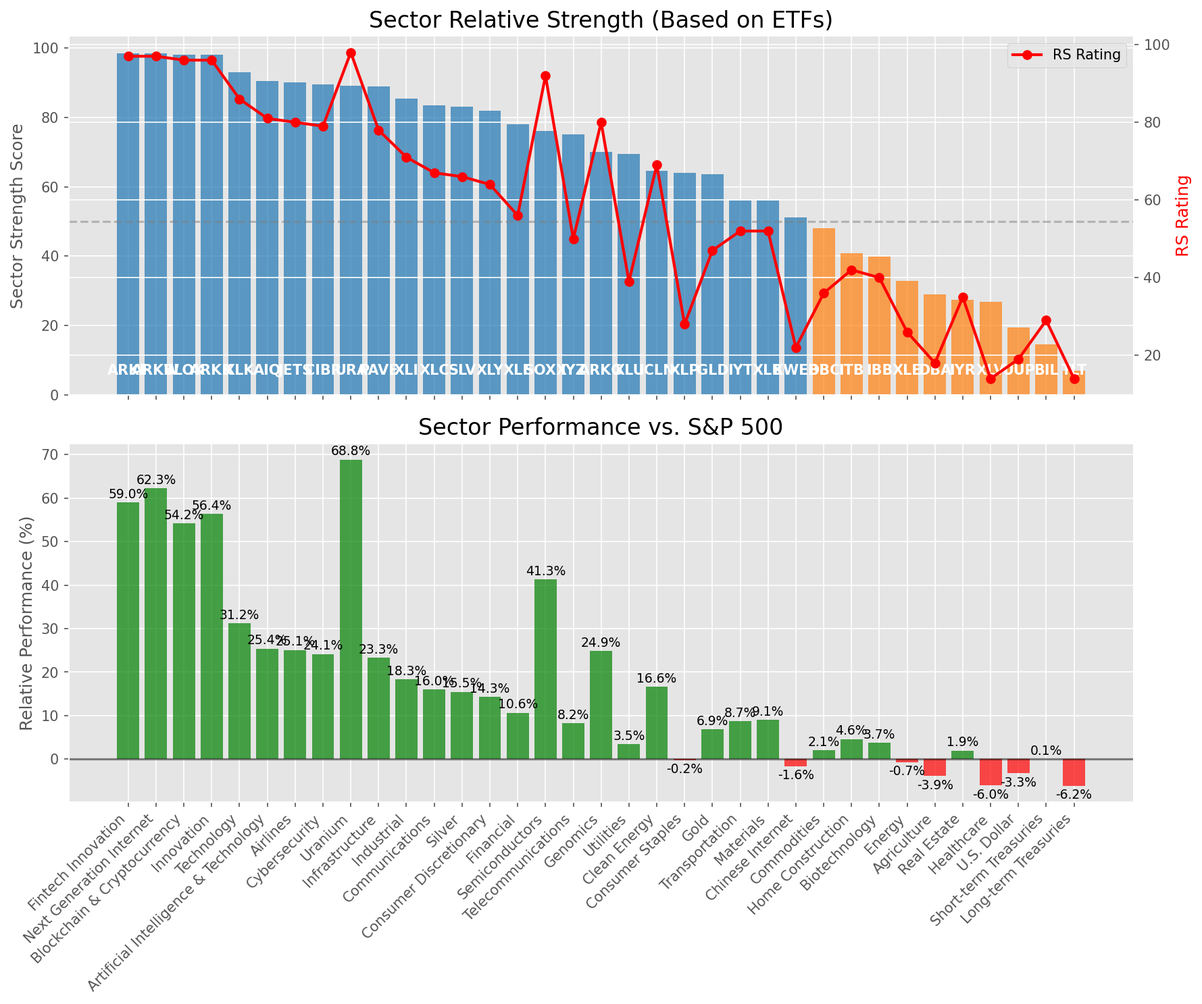
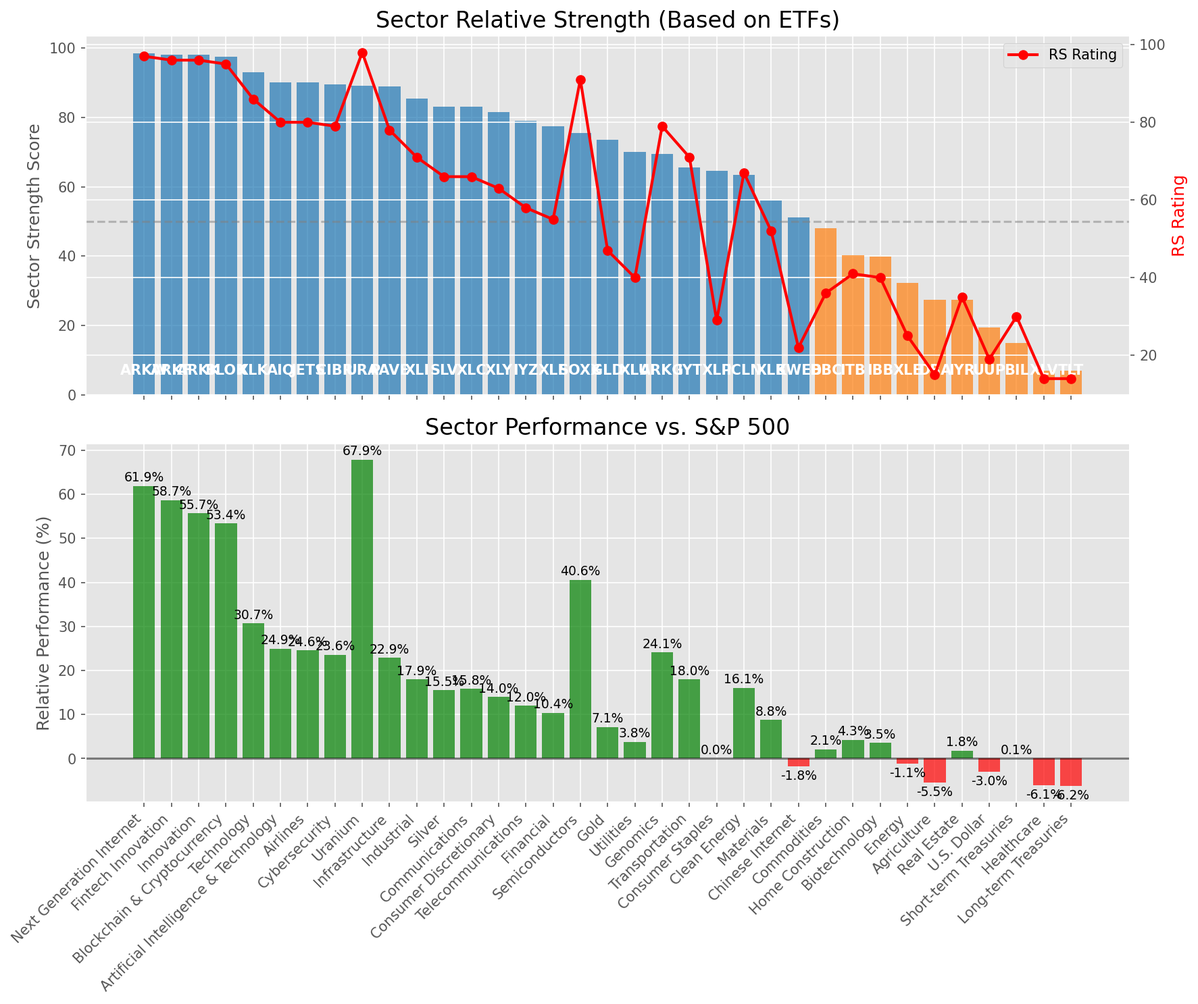
Add market report for 2025-07-07

diff --git a/oneil_relative_strength_report_2025-07-07.md b/oneil_relative_strength_report_2025-07-07.md
@@ -9,11 +9,11 @@
 | Metric | Value |
 |--------|-------|
 | **Market Valuation** | **Overvalued** |
-| **Current Ratio** | 10.23 |
+| **Current Ratio** | 10.20 |
 | **Historical Mean** | 9.40 |
 | **Standard Deviation** | 0.49 |
 | **Z-Score (StdDev from Mean)** | 1.81 |
-| **Total Market Cap** | $306.38 trillion |
+| **Total Market Cap** | $305.61 trillion |
 | **GDP** | $29.96 trillion |
 
 ## **Market Insights**
@@ -49,41 +49,41 @@ Based on William O'Neil's Relative Strength Methodology
 
 | ETF | Strength | RS Rating | Performance | Above Key MAs | Trend | Sector |
 |-----|----------|-----------|-------------|--------------|-------|--------|
-| [ARKF](https://www.tradingview.com/chart/?symbol=ARKF) | 98.5 | 97.0 | 58.98% | 10d ✓, 50d ✓, 200d ✓ | ↗ | Fintech Innovation |
-| [ARKW](https://www.tradingview.com/chart/?symbol=ARKW) | 98.5 | 97.0 | 62.26% | 10d ✓, 50d ✓, 200d ✓ | ↗ | Next Generation Internet |
-| [BLOK](https://www.tradingview.com/chart/?symbol=BLOK) | 98.0 | 96.0 | 54.21% | 10d ✓, 50d ✓, 200d ✓ | ↗ | Blockchain & Cryptocurrency |
-| [ARKK](https://www.tradingview.com/chart/?symbol=ARKK) | 98.0 | 96.0 | 56.38% | 10d ✓, 50d ✓, 200d ✓ | ↗ | Innovation |
-| [XLK](https://www.tradingview.com/chart/?symbol=XLK) | 93.0 | 86.0 | 31.19% | 10d ✓, 50d ✓, 200d ✓ | ↗ | Technology |
-| [AIQ](https://www.tradingview.com/chart/?symbol=AIQ) | 90.5 | 81.0 | 25.42% | 10d ✓, 50d ✓, 200d ✓ | ↗ | Artificial Intelligence & Technology |
-| [JETS](https://www.tradingview.com/chart/?symbol=JETS) | 90.0 | 80.0 | 25.10% | 10d ✓, 50d ✓, 200d ✓ | ↗ | Airlines |
-| [CIBR](https://www.tradingview.com/chart/?symbol=CIBR) | 89.5 | 79.0 | 24.14% | 10d ✓, 50d ✓, 200d ✓ | ↗ | Cybersecurity |
-| [URA](https://www.tradingview.com/chart/?symbol=URA) | 89.1 | 98.0 | 68.83% | 10d ✗, 50d ✓, 200d ✓ | ↗ | Uranium |
-| [PAVE](https://www.tradingview.com/chart/?symbol=PAVE) | 89.0 | 78.0 | 23.30% | 10d ✓, 50d ✓, 200d ✓ | ↗ | Infrastructure |
-| [XLI](https://www.tradingview.com/chart/?symbol=XLI) | 85.5 | 71.0 | 18.30% | 10d ✓, 50d ✓, 200d ✓ | ↗ | Industrial |
-| [XLC](https://www.tradingview.com/chart/?symbol=XLC) | 83.5 | 67.0 | 16.00% | 10d ✓, 50d ✓, 200d ✓ | ↗ | Communications |
-| [SLV](https://www.tradingview.com/chart/?symbol=SLV) | 83.0 | 66.0 | 15.46% | 10d ✓, 50d ✓, 200d ✓ | ↗ | Silver |
-| [XLY](https://www.tradingview.com/chart/?symbol=XLY) | 82.0 | 64.0 | 14.34% | 10d ✓, 50d ✓, 200d ✓ | ↗ | Consumer Discretionary |
-| [XLF](https://www.tradingview.com/chart/?symbol=XLF) | 78.0 | 56.0 | 10.64% | 10d ✓, 50d ✓, 200d ✓ | ↗ | Financial |
-| [SOXX](https://www.tradingview.com/chart/?symbol=SOXX) | 76.0 | 92.0 | 41.35% | 10d ✓, 50d ✓, 200d ✓ | ↘ | Semiconductors |
-| [IYZ](https://www.tradingview.com/chart/?symbol=IYZ) | 75.0 | 50.0 | 8.22% | 10d ✓, 50d ✓, 200d ✓ | ↗ | Telecommunications |
-| [ARKG](https://www.tradingview.com/chart/?symbol=ARKG) | 70.0 | 80.0 | 24.90% | 10d ✓, 50d ✓, 200d ✓ | ↘ | Genomics |
-| [XLU](https://www.tradingview.com/chart/?symbol=XLU) | 69.5 | 39.0 | 3.47% | 10d ✓, 50d ✓, 200d ✓ | ↗ | Utilities |
-| [ICLN](https://www.tradingview.com/chart/?symbol=ICLN) | 64.5 | 69.0 | 16.63% | 10d ✓, 50d ✓, 200d ✓ | ↘ | Clean Energy |
-| [XLP](https://www.tradingview.com/chart/?symbol=XLP) | 64.0 | 28.0 | -0.24% | 10d ✓, 50d ✓, 200d ✓ | ↗ | Consumer Staples |
-| [GLD](https://www.tradingview.com/chart/?symbol=GLD) | 63.6 | 47.0 | 6.85% | 10d ✗, 50d ✓, 200d ✓ | ↗ | Gold |
-| [IYT](https://www.tradingview.com/chart/?symbol=IYT) | 56.0 | 52.0 | 8.74% | 10d ✓, 50d ✓, 200d ✓ | ↘ | Transportation |
-| [XLB](https://www.tradingview.com/chart/?symbol=XLB) | 56.0 | 52.0 | 9.06% | 10d ✓, 50d ✓, 200d ✓ | ↘ | Materials |
-| [KWEB](https://www.tradingview.com/chart/?symbol=KWEB) | 51.1 | 22.0 | -1.65% | 10d ✗, 50d ✓, 200d ✓ | ↗ | Chinese Internet |
-| [DBC](https://www.tradingview.com/chart/?symbol=DBC) | 48.0 | 36.0 | 2.07% | 10d ✓, 50d ✓, 200d ✓ | ↘ | Commodities |
-| [ITB](https://www.tradingview.com/chart/?symbol=ITB) | 40.8 | 42.0 | 4.59% | 10d ✓, 50d ✓, 200d ✗ | ↘ | Home Construction |
-| [IBB](https://www.tradingview.com/chart/?symbol=IBB) | 39.8 | 40.0 | 3.72% | 10d ✓, 50d ✓, 200d ✗ | ↘ | Biotechnology |
-| [XLE](https://www.tradingview.com/chart/?symbol=XLE) | 32.8 | 26.0 | -0.69% | 10d ✓, 50d ✓, 200d ✗ | ↘ | Energy |
-| [DBA](https://www.tradingview.com/chart/?symbol=DBA) | 29.0 | 18.0 | -3.86% | 10d ✗, 50d ✗, 200d ✗ | ↗ | Agriculture |
-| [IYR](https://www.tradingview.com/chart/?symbol=IYR) | 27.4 | 35.0 | 1.95% | 10d ✗, 50d ✓, 200d ✗ | ↘ | Real Estate |
-| [XLV](https://www.tradingview.com/chart/?symbol=XLV) | 26.8 | 14.0 | -6.03% | 10d ✓, 50d ✓, 200d ✗ | ↘ | Healthcare |
-| [UUP](https://www.tradingview.com/chart/?symbol=UUP) | 19.4 | 19.0 | -3.26% | 10d ✓, 50d ✗, 200d ✗ | ↘ | U.S. Dollar |
-| [BIL](https://www.tradingview.com/chart/?symbol=BIL) | 14.5 | 29.0 | 0.06% | 10d ✗, 50d ✗, 200d ✗ | ↘ | Short-term Treasuries |
-| [TLT](https://www.tradingview.com/chart/?symbol=TLT) | 7.0 | 14.0 | -6.16% | 10d ✗, 50d ✗, 200d ✗ | ↘ | Long-term Treasuries |
+| [ARKW](https://www.tradingview.com/chart/?symbol=ARKW) | 98.5 | 97.0 | 61.86% | 10d ✓, 50d ✓, 200d ✓ | ↗ | Next Generation Internet |
+| [ARKF](https://www.tradingview.com/chart/?symbol=ARKF) | 98.0 | 96.0 | 58.68% | 10d ✓, 50d ✓, 200d ✓ | ↗ | Fintech Innovation |
+| [ARKK](https://www.tradingview.com/chart/?symbol=ARKK) | 98.0 | 96.0 | 55.72% | 10d ✓, 50d ✓, 200d ✓ | ↗ | Innovation |
+| [BLOK](https://www.tradingview.com/chart/?symbol=BLOK) | 97.5 | 95.0 | 53.36% | 10d ✓, 50d ✓, 200d ✓ | ↗ | Blockchain & Cryptocurrency |
+| [XLK](https://www.tradingview.com/chart/?symbol=XLK) | 93.0 | 86.0 | 30.70% | 10d ✓, 50d ✓, 200d ✓ | ↗ | Technology |
+| [AIQ](https://www.tradingview.com/chart/?symbol=AIQ) | 90.0 | 80.0 | 24.92% | 10d ✓, 50d ✓, 200d ✓ | ↗ | Artificial Intelligence & Technology |
+| [JETS](https://www.tradingview.com/chart/?symbol=JETS) | 90.0 | 80.0 | 24.56% | 10d ✓, 50d ✓, 200d ✓ | ↗ | Airlines |
+| [CIBR](https://www.tradingview.com/chart/?symbol=CIBR) | 89.5 | 79.0 | 23.60% | 10d ✓, 50d ✓, 200d ✓ | ↗ | Cybersecurity |
+| [URA](https://www.tradingview.com/chart/?symbol=URA) | 89.1 | 98.0 | 67.85% | 10d ✗, 50d ✓, 200d ✓ | ↗ | Uranium |
+| [PAVE](https://www.tradingview.com/chart/?symbol=PAVE) | 89.0 | 78.0 | 22.89% | 10d ✓, 50d ✓, 200d ✓ | ↗ | Infrastructure |
+| [XLI](https://www.tradingview.com/chart/?symbol=XLI) | 85.5 | 71.0 | 17.94% | 10d ✓, 50d ✓, 200d ✓ | ↗ | Industrial |
+| [SLV](https://www.tradingview.com/chart/?symbol=SLV) | 83.0 | 66.0 | 15.52% | 10d ✓, 50d ✓, 200d ✓ | ↗ | Silver |
+| [XLC](https://www.tradingview.com/chart/?symbol=XLC) | 83.0 | 66.0 | 15.83% | 10d ✓, 50d ✓, 200d ✓ | ↗ | Communications |
+| [XLY](https://www.tradingview.com/chart/?symbol=XLY) | 81.5 | 63.0 | 13.95% | 10d ✓, 50d ✓, 200d ✓ | ↗ | Consumer Discretionary |
+| [IYZ](https://www.tradingview.com/chart/?symbol=IYZ) | 79.0 | 58.0 | 11.97% | 10d ✓, 50d ✓, 200d ✓ | ↗ | Telecommunications |
+| [XLF](https://www.tradingview.com/chart/?symbol=XLF) | 77.5 | 55.0 | 10.41% | 10d ✓, 50d ✓, 200d ✓ | ↗ | Financial |
+| [SOXX](https://www.tradingview.com/chart/?symbol=SOXX) | 75.5 | 91.0 | 40.57% | 10d ✓, 50d ✓, 200d ✓ | ↘ | Semiconductors |
+| [GLD](https://www.tradingview.com/chart/?symbol=GLD) | 73.5 | 47.0 | 7.14% | 10d ✓, 50d ✓, 200d ✓ | ↗ | Gold |
+| [XLU](https://www.tradingview.com/chart/?symbol=XLU) | 70.0 | 40.0 | 3.78% | 10d ✓, 50d ✓, 200d ✓ | ↗ | Utilities |
+| [ARKG](https://www.tradingview.com/chart/?symbol=ARKG) | 69.5 | 79.0 | 24.11% | 10d ✓, 50d ✓, 200d ✓ | ↘ | Genomics |
+| [IYT](https://www.tradingview.com/chart/?symbol=IYT) | 65.5 | 71.0 | 17.96% | 10d ✓, 50d ✓, 200d ✓ | ↘ | Transportation |
+| [XLP](https://www.tradingview.com/chart/?symbol=XLP) | 64.5 | 29.0 | 0.02% | 10d ✓, 50d ✓, 200d ✓ | ↗ | Consumer Staples |
+| [ICLN](https://www.tradingview.com/chart/?symbol=ICLN) | 63.5 | 67.0 | 16.08% | 10d ✓, 50d ✓, 200d ✓ | ↘ | Clean Energy |
+| [XLB](https://www.tradingview.com/chart/?symbol=XLB) | 56.0 | 52.0 | 8.81% | 10d ✓, 50d ✓, 200d ✓ | ↘ | Materials |
+| [KWEB](https://www.tradingview.com/chart/?symbol=KWEB) | 51.1 | 22.0 | -1.84% | 10d ✗, 50d ✓, 200d ✓ | ↗ | Chinese Internet |
+| [DBC](https://www.tradingview.com/chart/?symbol=DBC) | 48.0 | 36.0 | 2.14% | 10d ✓, 50d ✓, 200d ✓ | ↘ | Commodities |
+| [ITB](https://www.tradingview.com/chart/?symbol=ITB) | 40.3 | 41.0 | 4.28% | 10d ✓, 50d ✓, 200d ✗ | ↘ | Home Construction |
+| [IBB](https://www.tradingview.com/chart/?symbol=IBB) | 39.8 | 40.0 | 3.55% | 10d ✓, 50d ✓, 200d ✗ | ↘ | Biotechnology |
+| [XLE](https://www.tradingview.com/chart/?symbol=XLE) | 32.3 | 25.0 | -1.13% | 10d ✓, 50d ✓, 200d ✗ | ↘ | Energy |
+| [DBA](https://www.tradingview.com/chart/?symbol=DBA) | 27.5 | 15.0 | -5.46% | 10d ✗, 50d ✗, 200d ✗ | ↗ | Agriculture |
+| [IYR](https://www.tradingview.com/chart/?symbol=IYR) | 27.4 | 35.0 | 1.78% | 10d ✗, 50d ✓, 200d ✗ | ↘ | Real Estate |
+| [UUP](https://www.tradingview.com/chart/?symbol=UUP) | 19.4 | 19.0 | -2.99% | 10d ✓, 50d ✗, 200d ✗ | ↘ | U.S. Dollar |
+| [BIL](https://www.tradingview.com/chart/?symbol=BIL) | 15.0 | 30.0 | 0.06% | 10d ✗, 50d ✗, 200d ✗ | ↘ | Short-term Treasuries |
+| [XLV](https://www.tradingview.com/chart/?symbol=XLV) | 7.0 | 14.0 | -6.11% | 10d ✗, 50d ✗, 200d ✗ | ↘ | Healthcare |
+| [TLT](https://www.tradingview.com/chart/?symbol=TLT) | 7.0 | 14.0 | -6.22% | 10d ✗, 50d ✗, 200d ✗ | ↘ | Long-term Treasuries |
 
 ### **Sector ETF Performance Interpretation**
 
@@ -98,160 +98,165 @@ This table shows the relative strength metrics for different market sectors base
 
 ### **Current Sector Leadership**
 
-The current market leadership is coming from the following sectors: **Fintech Innovation, Next Generation Internet, Blockchain & Cryptocurrency**.
+The current market leadership is coming from the following sectors: **Next Generation Internet, Fintech Innovation, Innovation**.
 
-The **Fintech Innovation** sector (represented by **ARKF**) is showing particularly strong relative strength with an RS rating of 97.0 and performance of 58.98% vs. the S&P 500. This sector is trading above its 10-day, 50-day, 200-day moving average(s). Investors should consider focusing on high RS stocks within these leading sectors for potential outperformance.
+The **Next Generation Internet** sector (represented by **ARKW**) is showing particularly strong relative strength with an RS rating of 97.0 and performance of 61.86% vs. the S&P 500. This sector is trading above its 10-day, 50-day, 200-day moving average(s). Investors should consider focusing on high RS stocks within these leading sectors for potential outperformance.
 
 ---
 
 ## **Buy Recommendations**
 
-The following 51 stocks show exceptional relative strength:
+The following 55 stocks show exceptional relative strength:
 
 | RS Rating | Buy Score | Current Price | Chart | Name | Ticker |
 |-----------|-----------|---------------|-------|------|--------|
-| 100 | 100 | $182.53 | [Chart](https://www.tradingview.com/chart/?symbol=LEU) | Centrus Energy Corp. | LEU |
-| 100 | 100 | $93.22 | [Chart](https://www.tradingview.com/chart/?symbol=HOOD) | Robinhood Markets, Inc. Class A Common Stock | HOOD |
-| 100 | 100 | $179.20 | [Chart](https://www.tradingview.com/chart/?symbol=SEZL) | Sezzle Inc. Common Stock | SEZL |
-| 100 | 100 | $155.79 | [Chart](https://www.tradingview.com/chart/?symbol=CLS) | Celestica, Inc. | CLS |
-| 100 | 100 | $281.74 | [Chart](https://www.tradingview.com/chart/?symbol=DAVE) | Dave Inc. Class A Common Stock | DAVE |
-| 99 | 100 | $36.49 | [Chart](https://www.tradingview.com/chart/?symbol=GRPN) | Groupon, Inc.Common Stock | GRPN |
-| 99 | 100 | $75.33 | [Chart](https://www.tradingview.com/chart/?symbol=ODD) | ODDITY Tech Ltd. Class A Ordinary Shares | ODD |
+| 100 | 100 | $154.86 | [Chart](https://www.tradingview.com/chart/?symbol=CLS) | Celestica, Inc. | CLS |
+| 100 | 100 | $179.75 | [Chart](https://www.tradingview.com/chart/?symbol=SEZL) | Sezzle Inc. Common Stock | SEZL |
+| 100 | 100 | $182.88 | [Chart](https://www.tradingview.com/chart/?symbol=LEU) | Centrus Energy Corp. | LEU |
+| 100 | 100 | $92.96 | [Chart](https://www.tradingview.com/chart/?symbol=HOOD) | Robinhood Markets, Inc. Class A Common Stock | HOOD |
+| 100 | 100 | $279.30 | [Chart](https://www.tradingview.com/chart/?symbol=DAVE) | Dave Inc. Class A Common Stock | DAVE |
+| 99 | 100 | $36.46 | [Chart](https://www.tradingview.com/chart/?symbol=GRPN) | Groupon, Inc.Common Stock | GRPN |
+| 99 | 100 | $356.12 | [Chart](https://www.tradingview.com/chart/?symbol=CVNA) | Carvana Co. | CVNA |
+| 99 | 100 | $75.42 | [Chart](https://www.tradingview.com/chart/?symbol=ODD) | ODDITY Tech Ltd. Class A Ordinary Shares | ODD |
+| 99 | 100 | $192.54 | [Chart](https://www.tradingview.com/chart/?symbol=NET) | Cloudflare, Inc. Class A common stock, par value $0.001 per share | NET |
+| 99 | 100 | $107.69 | [Chart](https://www.tradingview.com/chart/?symbol=RBLX) | Roblox Corporation | RBLX |
 | 99 | 100 | $149.20 | [Chart](https://www.tradingview.com/chart/?symbol=LMB) | Limbach Holdings, Inc Common Stock | LMB |
-| 99 | 100 | $356.41 | [Chart](https://www.tradingview.com/chart/?symbol=CVNA) | Carvana Co. | CVNA |
-| 99 | 100 | $193.52 | [Chart](https://www.tradingview.com/chart/?symbol=NET) | Cloudflare, Inc. Class A common stock, par value $0.001 per share | NET |
-| 99 | 100 | $107.34 | [Chart](https://www.tradingview.com/chart/?symbol=RBLX) | Roblox Corporation | RBLX |
-| 98 | 100 | $527.38 | [Chart](https://www.tradingview.com/chart/?symbol=GEV) | GE Vernova Inc. | GEV |
-| 98 | 100 | $330.69 | [Chart](https://www.tradingview.com/chart/?symbol=RCL) | Royal Caribbean Group | RCL |
-| 97 | 100 | $315.86 | [Chart](https://www.tradingview.com/chart/?symbol=ZS) | Zscaler, Inc. Common Stock | ZS |
-| 97 | 100 | $71.97 | [Chart](https://www.tradingview.com/chart/?symbol=URBN) | Urban Outfitters Inc | URBN |
-| 97 | 100 | $50.54 | [Chart](https://www.tradingview.com/chart/?symbol=ARKF) | ARK Fintech Innovation ETF | ARKF |
-| 97 | 100 | $138.00 | [Chart](https://www.tradingview.com/chart/?symbol=PLTR) | Palantir Technologies Inc. Class A Common Stock | PLTR |
+| 98 | 100 | $329.25 | [Chart](https://www.tradingview.com/chart/?symbol=RCL) | Royal Caribbean Group | RCL |
+| 98 | 100 | $528.74 | [Chart](https://www.tradingview.com/chart/?symbol=GEV) | GE Vernova Inc. | GEV |
+| 97 | 100 | $72.06 | [Chart](https://www.tradingview.com/chart/?symbol=URBN) | Urban Outfitters Inc | URBN |
+| 97 | 100 | $138.05 | [Chart](https://www.tradingview.com/chart/?symbol=PLTR) | Palantir Technologies Inc. Class A Common Stock | PLTR |
+| 97 | 100 | $314.08 | [Chart](https://www.tradingview.com/chart/?symbol=ZS) | Zscaler, Inc. Common Stock | ZS |
+| 96 | 100 | $50.44 | [Chart](https://www.tradingview.com/chart/?symbol=ARKF) | ARK Fintech Innovation ETF | ARKF |
+| 96 | 100 | $89.81 | [Chart](https://www.tradingview.com/chart/?symbol=RBRK) | Rubrik, Inc. | RBRK |
+| 96 | 100 | $38.35 | [Chart](https://www.tradingview.com/chart/?symbol=AS) | Amer Sports, Inc. | AS |
 | 96 | 100 | $43.94 | [Chart](https://www.tradingview.com/chart/?symbol=FARO) | Faro Technologies Inc | FARO |
-| 96 | 100 | $90.45 | [Chart](https://www.tradingview.com/chart/?symbol=RBRK) | Rubrik, Inc. | RBRK |
-| 96 | 100 | $38.40 | [Chart](https://www.tradingview.com/chart/?symbol=AS) | Amer Sports, Inc. | AS |
-| 95 | 100 | $50.23 | [Chart](https://www.tradingview.com/chart/?symbol=INOD) | Innodata Inc. | INOD |
-| 94 | 100 | $45.40 | [Chart](https://www.tradingview.com/chart/?symbol=KTOS) | Kratos Defense & Security Solutions, Inc. | KTOS |
-| 94 | 100 | $58.28 | [Chart](https://www.tradingview.com/chart/?symbol=IBKR) | Interactive Brokers Group, Inc. Class A Common Stock | IBKR |
-| 94 | 100 | $505.71 | [Chart](https://www.tradingview.com/chart/?symbol=CRWD) | CrowdStrike Holdings, Inc. Class A Common Stock | CRWD |
-| 93 | 100 | $252.74 | [Chart](https://www.tradingview.com/chart/?symbol=WWD) | Woodward, Inc. | WWD |
-| 93 | 100 | $180.48 | [Chart](https://www.tradingview.com/chart/?symbol=HWM) | Howmet Aerospace Inc. | HWM |
-| 93 | 100 | $46.82 | [Chart](https://www.tradingview.com/chart/?symbol=DRS) | Leonardo DRS, Inc. Common Stock | DRS |
-| 92 | 100 | $21.45 | [Chart](https://www.tradingview.com/chart/?symbol=MAG) | MAG Silver Corp. | MAG |
-| 92 | 100 | $17.52 | [Chart](https://www.tradingview.com/chart/?symbol=DAN) | Dana Incorporated | DAN |
-| 92 | 100 | $92.07 | [Chart](https://www.tradingview.com/chart/?symbol=TPR) | Tapestry, Inc. Common Stock | TPR |
-| 91 | 100 | $43.29 | [Chart](https://www.tradingview.com/chart/?symbol=KD) | Kyndryl Holdings, Inc. | KD |
-| 90 | 100 | $25.75 | [Chart](https://www.tradingview.com/chart/?symbol=KAR) | OPENLANE, Inc | KAR |
-| 88 | 100 | $28.24 | [Chart](https://www.tradingview.com/chart/?symbol=SRAD) | Sportradar Group AG Class A Ordinary Shares | SRAD |
+| 95 | 100 | $50.01 | [Chart](https://www.tradingview.com/chart/?symbol=INOD) | Innodata Inc. | INOD |
+| 94 | 100 | $44.98 | [Chart](https://www.tradingview.com/chart/?symbol=KTOS) | Kratos Defense & Security Solutions, Inc. | KTOS |
+| 94 | 100 | $58.01 | [Chart](https://www.tradingview.com/chart/?symbol=IBKR) | Interactive Brokers Group, Inc. Class A Common Stock | IBKR |
+| 94 | 100 | $797.34 | [Chart](https://www.tradingview.com/chart/?symbol=AXON) | Axon Enterprise, Inc. Common Stock | AXON |
+| 93 | 100 | $501.37 | [Chart](https://www.tradingview.com/chart/?symbol=CRWD) | CrowdStrike Holdings, Inc. Class A Common Stock | CRWD |
+| 93 | 100 | $179.86 | [Chart](https://www.tradingview.com/chart/?symbol=HWM) | Howmet Aerospace Inc. | HWM |
+| 93 | 100 | $252.93 | [Chart](https://www.tradingview.com/chart/?symbol=WWD) | Woodward, Inc. | WWD |
+| 93 | 100 | $46.79 | [Chart](https://www.tradingview.com/chart/?symbol=DRS) | Leonardo DRS, Inc. Common Stock | DRS |
+| 92 | 100 | $92.21 | [Chart](https://www.tradingview.com/chart/?symbol=TPR) | Tapestry, Inc. Common Stock | TPR |
+| 92 | 100 | $21.52 | [Chart](https://www.tradingview.com/chart/?symbol=MAG) | MAG Silver Corp. | MAG |
+| 91 | 100 | $17.48 | [Chart](https://www.tradingview.com/chart/?symbol=DAN) | Dana Incorporated | DAN |
+| 91 | 100 | $243.62 | [Chart](https://www.tradingview.com/chart/?symbol=DASH) | DoorDash, Inc. Class A Common Stock | DASH |
+| 91 | 100 | $43.00 | [Chart](https://www.tradingview.com/chart/?symbol=KD) | Kyndryl Holdings, Inc. | KD |
+| 90 | 100 | $25.57 | [Chart](https://www.tradingview.com/chart/?symbol=KAR) | OPENLANE, Inc | KAR |
+| 90 | 100 | $63.78 | [Chart](https://www.tradingview.com/chart/?symbol=CAKE) | Cheesecake Factory (The) | CAKE |
+| 88 | 100 | $28.17 | [Chart](https://www.tradingview.com/chart/?symbol=SRAD) | Sportradar Group AG Class A Ordinary Shares | SRAD |
 | 89 | 99 | $52.89 | [Chart](https://www.tradingview.com/chart/?symbol=BBW) | Build-A-Bear Workshop, Inc. | BBW |
-| 87 | 98 | $30.65 | [Chart](https://www.tradingview.com/chart/?symbol=HODL) | VanEck Bitcoin ETF | HODL |
-| 88 | 97 | $66.00 | [Chart](https://www.tradingview.com/chart/?symbol=RYTM) | Rhythm Pharmaceuticals, Inc. Common Stock | RYTM |
-| 87 | 97 | $61.58 | [Chart](https://www.tradingview.com/chart/?symbol=IBIT) | iShares Bitcoin Trust ETF | IBIT |
-| 84 | 97 | $66.75 | [Chart](https://www.tradingview.com/chart/?symbol=CHEF) | The Chef's Warehouse Inc | CHEF |
-| 83 | 96 | $18.29 | [Chart](https://www.tradingview.com/chart/?symbol=BCS) | Barclays PLC | BCS |
-| 84 | 95 | $284.37 | [Chart](https://www.tradingview.com/chart/?symbol=VEEV) | Veeva Systems Inc. | VEEV |
-| 82 | 95 | $29.85 | [Chart](https://www.tradingview.com/chart/?symbol=CAE) | CAE INC | CAE |
-| 84 | 94 | $47.39 | [Chart](https://www.tradingview.com/chart/?symbol=AU) | AngloGold Ashanti plc | AU |
-| 83 | 94 | $133.78 | [Chart](https://www.tradingview.com/chart/?symbol=NTES) | NetEase, inc. | NTES |
-| 82 | 94 | $59.88 | [Chart](https://www.tradingview.com/chart/?symbol=SHLD) | Global X Defense Tech ETF | SHLD |
-| 82 | 93 | $187.71 | [Chart](https://www.tradingview.com/chart/?symbol=ITA) | iShares U.S. Aerospace & Defense ETF | ITA |
-| 83 | 92 | $49.34 | [Chart](https://www.tradingview.com/chart/?symbol=SIL) | Global X Silver Miners ETF (NEW) | SIL |
-| 83 | 92 | $124.60 | [Chart](https://www.tradingview.com/chart/?symbol=FUTU) | Futu Holdings Limited American Depositary Shares | FUTU |
-| 82 | 92 | $112.14 | [Chart](https://www.tradingview.com/chart/?symbol=SPMO) | Invesco S&P 500 Momentum ETF | SPMO |
-| 81 | 92 | $72.23 | [Chart](https://www.tradingview.com/chart/?symbol=ULS) | UL Solutions Inc. | ULS |
-| 81 | 92 | $76.80 | [Chart](https://www.tradingview.com/chart/?symbol=CTVA) | Corteva, Inc. Common Stock | CTVA |
-| 81 | 91 | $82.18 | [Chart](https://www.tradingview.com/chart/?symbol=WFC) | Wells Fargo & Co. | WFC |
+| 86 | 99 | $67.94 | [Chart](https://www.tradingview.com/chart/?symbol=CHEF) | The Chef's Warehouse Inc | CHEF |
+| 87 | 98 | $30.56 | [Chart](https://www.tradingview.com/chart/?symbol=HODL) | VanEck Bitcoin ETF | HODL |
+| 88 | 97 | $66.44 | [Chart](https://www.tradingview.com/chart/?symbol=RYTM) | Rhythm Pharmaceuticals, Inc. Common Stock | RYTM |
+| 87 | 97 | $61.39 | [Chart](https://www.tradingview.com/chart/?symbol=IBIT) | iShares Bitcoin Trust ETF | IBIT |
+| 85 | 95 | $47.66 | [Chart](https://www.tradingview.com/chart/?symbol=AU) | AngloGold Ashanti plc | AU |
+| 84 | 95 | $283.05 | [Chart](https://www.tradingview.com/chart/?symbol=VEEV) | Veeva Systems Inc. | VEEV |
+| 82 | 95 | $29.89 | [Chart](https://www.tradingview.com/chart/?symbol=CAE) | CAE INC | CAE |
+| 83 | 94 | $133.68 | [Chart](https://www.tradingview.com/chart/?symbol=NTES) | NetEase, inc. | NTES |
+| 83 | 94 | $291.19 | [Chart](https://www.tradingview.com/chart/?symbol=JPM) | JPMorgan Chase & Co. | JPM |
+| 82 | 94 | $59.65 | [Chart](https://www.tradingview.com/chart/?symbol=SHLD) | Global X Defense Tech ETF | SHLD |
+| 84 | 93 | $49.46 | [Chart](https://www.tradingview.com/chart/?symbol=SIL) | Global X Silver Miners ETF (NEW) | SIL |
+| 82 | 93 | $187.17 | [Chart](https://www.tradingview.com/chart/?symbol=ITA) | iShares U.S. Aerospace & Defense ETF | ITA |
+| 82 | 93 | $72.31 | [Chart](https://www.tradingview.com/chart/?symbol=ULS) | UL Solutions Inc. | ULS |
+| 83 | 92 | $124.06 | [Chart](https://www.tradingview.com/chart/?symbol=FUTU) | Futu Holdings Limited American Depositary Shares | FUTU |
+| 82 | 92 | $111.95 | [Chart](https://www.tradingview.com/chart/?symbol=SPMO) | Invesco S&P 500 Momentum ETF | SPMO |
+| 81 | 91 | $35.67 | [Chart](https://www.tradingview.com/chart/?symbol=ATAT) | Atour Lifestyle Holdings Limited American Depositary Shares | ATAT |
+| 80 | 91 | $76.37 | [Chart](https://www.tradingview.com/chart/?symbol=CTVA) | Corteva, Inc. Common Stock | CTVA |
+| 80 | 90 | $81.96 | [Chart](https://www.tradingview.com/chart/?symbol=WFC) | Wells Fargo & Co. | WFC |
 
 ---
 
 
 ## **Sell Recommendations**
 
-The following 81 stocks show deteriorating relative strength:
+The following 82 stocks show deteriorating relative strength:
 
 | RS Rating | Sell Score | Current Price | Chart | Name | Ticker |
 |-----------|------------|---------------|-------|------|--------|
-| 1 | 100 | $25.18 | [Chart](https://www.tradingview.com/chart/?symbol=QID) | ProShares UltraShort QQQ | QID |
+| 1 | 100 | $25.31 | [Chart](https://www.tradingview.com/chart/?symbol=QID) | ProShares UltraShort QQQ | QID |
 | 1 | 100 | $10.09 | [Chart](https://www.tradingview.com/chart/?symbol=HIBS) | Direxion Daily S&P 500 High Beta Bear 3X Shares | HIBS |
-| 1 | 100 | $25.84 | [Chart](https://www.tradingview.com/chart/?symbol=TECS) | Direxion Daily Technology Bear 3x Shares | TECS |
-| 1 | 100 | $14.33 | [Chart](https://www.tradingview.com/chart/?symbol=NVDS) | Investment Managers Series Trust II Tradr 1.5X Short NVDA Daily ETF | NVDS |
-| 2 | 100 | $43.04 | [Chart](https://www.tradingview.com/chart/?symbol=LINE) | Lineage, Inc. Common Stock | LINE |
-| 2 | 100 | $16.47 | [Chart](https://www.tradingview.com/chart/?symbol=SDS) | ProShares UltraShort S&P500 | SDS |
-| 2 | 100 | $19.52 | [Chart](https://www.tradingview.com/chart/?symbol=BITI) | ProShares Short Bitcoin ETF | BITI |
+| 1 | 100 | $26.12 | [Chart](https://www.tradingview.com/chart/?symbol=TECS) | Direxion Daily Technology Bear 3x Shares | TECS |
+| 1 | 100 | $14.36 | [Chart](https://www.tradingview.com/chart/?symbol=NVDS) | Investment Managers Series Trust II Tradr 1.5X Short NVDA Daily ETF | NVDS |
+| 2 | 100 | $16.55 | [Chart](https://www.tradingview.com/chart/?symbol=SDS) | ProShares UltraShort S&P500 | SDS |
+| 2 | 100 | $40.73 | [Chart](https://www.tradingview.com/chart/?symbol=SDOW) | ProShares UltraPro Short Dow 30 | SDOW |
+| 2 | 100 | $25.08 | [Chart](https://www.tradingview.com/chart/?symbol=CRTO) | Criteo S.A. | CRTO |
+| 2 | 100 | $19.59 | [Chart](https://www.tradingview.com/chart/?symbol=BITI) | ProShares Short Bitcoin ETF | BITI |
 | 2 | 100 | $10.20 | [Chart](https://www.tradingview.com/chart/?symbol=HPK) | HighPeak Energy, Inc. Common Stock | HPK |
-| 2 | 100 | $40.41 | [Chart](https://www.tradingview.com/chart/?symbol=SDOW) | ProShares UltraPro Short Dow 30 | SDOW |
-| 3 | 100 | $35.58 | [Chart](https://www.tradingview.com/chart/?symbol=SARK) | Investment Managers Series Trust II Tradr 1X Short Innovation Daily ETF | SARK |
-| 3 | 100 | $23.84 | [Chart](https://www.tradingview.com/chart/?symbol=DXD) | ProShares UltraShort Dow 30 | DXD |
-| 3 | 100 | $33.59 | [Chart](https://www.tradingview.com/chart/?symbol=PSQ) | ProShares Short QQQ | PSQ |
-| 3 | 100 | $25.14 | [Chart](https://www.tradingview.com/chart/?symbol=CRTO) | Criteo S.A. | CRTO |
-| 4 | 100 | $79.81 | [Chart](https://www.tradingview.com/chart/?symbol=LNTH) | Lantheus Holdings, Inc | LNTH |
-| 4 | 100 | $92.97 | [Chart](https://www.tradingview.com/chart/?symbol=ZBH) | Zimmer Biomet Holdings, Inc. | ZBH |
-| 4 | 100 | $33.69 | [Chart](https://www.tradingview.com/chart/?symbol=CYTK) | Cytokinetics Inc. | CYTK |
-| 4 | 100 | $49.25 | [Chart](https://www.tradingview.com/chart/?symbol=CCOI) | Cogent Communications Holdings, Inc. | CCOI |
-| 5 | 100 | $39.48 | [Chart](https://www.tradingview.com/chart/?symbol=SH) | ProShares Short S&P500 | SH |
-| 5 | 100 | $10.22 | [Chart](https://www.tradingview.com/chart/?symbol=LBTYK) | Liberty Global Ltd. Class C Common Shares | LBTYK |
-| 6 | 100 | $51.97 | [Chart](https://www.tradingview.com/chart/?symbol=LW) | Lamb Weston Holdings, Inc. | LW |
-| 6 | 100 | $14.49 | [Chart](https://www.tradingview.com/chart/?symbol=VRE) | Veris Residential, Inc. | VRE |
-| 9 | 100 | $11.75 | [Chart](https://www.tradingview.com/chart/?symbol=LBRT) | Liberty Energy Inc. | LBRT |
-| 9 | 100 | $25.28 | [Chart](https://www.tradingview.com/chart/?symbol=DOG) | ProShares Short Dow30 | DOG |
-| 10 | 100 | $131.84 | [Chart](https://www.tradingview.com/chart/?symbol=KMB) | Kimberly-Clark Corp. | KMB |
-| 10 | 100 | $52.62 | [Chart](https://www.tradingview.com/chart/?symbol=CNMD) | CONMED Corporation | CNMD |
-| 11 | 100 | $47.01 | [Chart](https://www.tradingview.com/chart/?symbol=KBR) | KBR, Inc. | KBR |
-| 11 | 100 | $83.03 | [Chart](https://www.tradingview.com/chart/?symbol=KSPI) | Joint Stock Company Kaspi.kz American Depository Shares | KSPI |
+| 2 | 100 | $43.01 | [Chart](https://www.tradingview.com/chart/?symbol=LINE) | Lineage, Inc. Common Stock | LINE |
+| 3 | 100 | $33.67 | [Chart](https://www.tradingview.com/chart/?symbol=PSQ) | ProShares Short QQQ | PSQ |
+| 3 | 100 | $35.67 | [Chart](https://www.tradingview.com/chart/?symbol=SARK) | Investment Managers Series Trust II Tradr 1X Short Innovation Daily ETF | SARK |
+| 4 | 100 | $23.96 | [Chart](https://www.tradingview.com/chart/?symbol=DXD) | ProShares UltraShort Dow 30 | DXD |
+| 4 | 100 | $92.75 | [Chart](https://www.tradingview.com/chart/?symbol=ZBH) | Zimmer Biomet Holdings, Inc. | ZBH |
+| 4 | 100 | $10.20 | [Chart](https://www.tradingview.com/chart/?symbol=LBTYK) | Liberty Global Ltd. Class C Common Shares | LBTYK |
+| 4 | 100 | $79.83 | [Chart](https://www.tradingview.com/chart/?symbol=LNTH) | Lantheus Holdings, Inc | LNTH |
+| 4 | 100 | $33.38 | [Chart](https://www.tradingview.com/chart/?symbol=CYTK) | Cytokinetics Inc. | CYTK |
+| 5 | 100 | $39.57 | [Chart](https://www.tradingview.com/chart/?symbol=SH) | ProShares Short S&P500 | SH |
+| 6 | 100 | $14.44 | [Chart](https://www.tradingview.com/chart/?symbol=VRE) | Veris Residential, Inc. | VRE |
+| 6 | 100 | $12.91 | [Chart](https://www.tradingview.com/chart/?symbol=CCRN) | Cross Country Healthcare Inc | CCRN |
+| 7 | 100 | $51.78 | [Chart](https://www.tradingview.com/chart/?symbol=LW) | Lamb Weston Holdings, Inc. | LW |
+| 8 | 100 | $11.65 | [Chart](https://www.tradingview.com/chart/?symbol=LBRT) | Liberty Energy Inc. | LBRT |
+| 10 | 100 | $52.52 | [Chart](https://www.tradingview.com/chart/?symbol=CNMD) | CONMED Corporation | CNMD |
+| 10 | 100 | $46.77 | [Chart](https://www.tradingview.com/chart/?symbol=KBR) | KBR, Inc. | KBR |
+| 10 | 100 | $131.93 | [Chart](https://www.tradingview.com/chart/?symbol=KMB) | Kimberly-Clark Corp. | KMB |
+| 11 | 100 | $13.87 | [Chart](https://www.tradingview.com/chart/?symbol=OCSL) | Oaktree Specialty Lending Corporation | OCSL |
+| 11 | 100 | $83.06 | [Chart](https://www.tradingview.com/chart/?symbol=KSPI) | Joint Stock Company Kaspi.kz American Depository Shares | KSPI |
 | 13 | 100 | $86.33 | [Chart](https://www.tradingview.com/chart/?symbol=SIGI) | Selective Insurance Group | SIGI |
-| 10 | 99 | $61.73 | [Chart](https://www.tradingview.com/chart/?symbol=ELS) | Equity Lifestyle Properties, Inc. | ELS |
-| 13 | 99 | $14.03 | [Chart](https://www.tradingview.com/chart/?symbol=OCSL) | Oaktree Specialty Lending Corporation | OCSL |
-| 10 | 98 | $29.73 | [Chart](https://www.tradingview.com/chart/?symbol=QDEL) | QuidelOrtho Corporation Common Stock | QDEL |
-| 11 | 98 | $40.77 | [Chart](https://www.tradingview.com/chart/?symbol=POR) | Portland General Electric Company | POR |
-| 6 | 97 | $80.10 | [Chart](https://www.tradingview.com/chart/?symbol=OKE) | Oneok, Inc. | OKE |
-| 8 | 97 | $48.38 | [Chart](https://www.tradingview.com/chart/?symbol=SNY) | Sanofi American Depositary Shares (Each representing one-half of one ordinary share) | SNY |
-| 10 | 97 | $13.75 | [Chart](https://www.tradingview.com/chart/?symbol=EIC) | Eagle Point Income Company Inc. | EIC |
-| 19 | 97 | $10.35 | [Chart](https://www.tradingview.com/chart/?symbol=MUC) | BLACKROCK MUNIHOLDINGS CALIFORNIA QUALITY FUND, INC | MUC |
+| 10 | 99 | $25.34 | [Chart](https://www.tradingview.com/chart/?symbol=DOG) | ProShares Short Dow30 | DOG |
+| 10 | 99 | $61.85 | [Chart](https://www.tradingview.com/chart/?symbol=ELS) | Equity Lifestyle Properties, Inc. | ELS |
+| 7 | 98 | $48.27 | [Chart](https://www.tradingview.com/chart/?symbol=SNY) | Sanofi American Depositary Shares (Each representing one-half of one ordinary share) | SNY |
+| 10 | 98 | $29.54 | [Chart](https://www.tradingview.com/chart/?symbol=QDEL) | QuidelOrtho Corporation Common Stock | QDEL |
+| 11 | 98 | $40.80 | [Chart](https://www.tradingview.com/chart/?symbol=POR) | Portland General Electric Company | POR |
+| 6 | 97 | $79.64 | [Chart](https://www.tradingview.com/chart/?symbol=OKE) | Oneok, Inc. | OKE |
+| 9 | 97 | $13.71 | [Chart](https://www.tradingview.com/chart/?symbol=EIC) | Eagle Point Income Company Inc. | EIC |
+| 19 | 97 | $10.34 | [Chart](https://www.tradingview.com/chart/?symbol=MUC) | BLACKROCK MUNIHOLDINGS CALIFORNIA QUALITY FUND, INC | MUC |
 | 5 | 96 | $24.77 | [Chart](https://www.tradingview.com/chart/?symbol=DRV) | Direxion Daily Real Estate Bear 3X Shares | DRV |
-| 16 | 96 | $52.83 | [Chart](https://www.tradingview.com/chart/?symbol=KBH) | KB Home | KBH |
-| 18 | 95 | $30.27 | [Chart](https://www.tradingview.com/chart/?symbol=BAX) | Baxter International Inc. | BAX |
-| 16 | 93 | $10.36 | [Chart](https://www.tradingview.com/chart/?symbol=NMZ) | Nuveen Municipal High Income Opportunity Fund | NMZ |
-| 17 | 93 | $103.54 | [Chart](https://www.tradingview.com/chart/?symbol=DEO) | Diageo plc | DEO |
-| 10 | 92 | $38.53 | [Chart](https://www.tradingview.com/chart/?symbol=LKQ) | LKQ Corporation | LKQ |
-| 14 | 92 | $86.19 | [Chart](https://www.tradingview.com/chart/?symbol=TLT) | iShares 20+ Year Treasury Bond ETF | TLT |
-| 21 | 91 | $772.00 | [Chart](https://www.tradingview.com/chart/?symbol=LLY) | Eli Lilly & Co. | LLY |
-| 12 | 90 | $105.11 | [Chart](https://www.tradingview.com/chart/?symbol=PDD) | PDD Holdings Inc. American Depositary Shares | PDD |
-| 13 | 90 | $40.90 | [Chart](https://www.tradingview.com/chart/?symbol=UDR) | UDR, Inc. | UDR |
-| 14 | 90 | $289.67 | [Chart](https://www.tradingview.com/chart/?symbol=UTHR) | United Therapeutics Corp | UTHR |
-| 15 | 90 | $101.35 | [Chart](https://www.tradingview.com/chart/?symbol=CCI) | Crown Castle Inc. | CCI |
-| 15 | 90 | $18.97 | [Chart](https://www.tradingview.com/chart/?symbol=MSDL) | Morgan Stanley Direct Lending Fund | MSDL |
-| 15 | 90 | $12.68 | [Chart](https://www.tradingview.com/chart/?symbol=PCN) | PIMCO Corporate & Income Strategy Fund | PCN |
-| 16 | 90 | $27.12 | [Chart](https://www.tradingview.com/chart/?symbol=VCYT) | Veracyte, Inc. | VCYT |
+| 16 | 96 | $52.63 | [Chart](https://www.tradingview.com/chart/?symbol=KBH) | KB Home | KBH |
+| 7 | 95 | $71.08 | [Chart](https://www.tradingview.com/chart/?symbol=RLI) | RLI Corp. | RLI |
+| 10 | 95 | $27.66 | [Chart](https://www.tradingview.com/chart/?symbol=GTY) | Getty Realty Corp. | GTY |
+| 17 | 95 | $29.98 | [Chart](https://www.tradingview.com/chart/?symbol=BAX) | Baxter International Inc. | BAX |
+| 17 | 93 | $103.33 | [Chart](https://www.tradingview.com/chart/?symbol=DEO) | Diageo plc | DEO |
+| 10 | 92 | $38.41 | [Chart](https://www.tradingview.com/chart/?symbol=LKQ) | LKQ Corporation | LKQ |
+| 16 | 92 | $10.35 | [Chart](https://www.tradingview.com/chart/?symbol=NMZ) | Nuveen Municipal High Income Opportunity Fund | NMZ |
+| 15 | 91 | $26.82 | [Chart](https://www.tradingview.com/chart/?symbol=VCYT) | Veracyte, Inc. | VCYT |
+| 12 | 90 | $105.13 | [Chart](https://www.tradingview.com/chart/?symbol=PDD) | PDD Holdings Inc. American Depositary Shares | PDD |
+| 13 | 90 | $12.70 | [Chart](https://www.tradingview.com/chart/?symbol=EWTX) | Edgewise Therapeutics, Inc. Common Stock | EWTX |
+| 15 | 90 | $18.94 | [Chart](https://www.tradingview.com/chart/?symbol=MSDL) | Morgan Stanley Direct Lending Fund | MSDL |
+| 15 | 90 | $12.66 | [Chart](https://www.tradingview.com/chart/?symbol=PCN) | PIMCO Corporate & Income Strategy Fund | PCN |
 | 17 | 90 | $14.12 | [Chart](https://www.tradingview.com/chart/?symbol=DOLE) | Dole plc | DOLE |
-| 14 | 89 | $12.77 | [Chart](https://www.tradingview.com/chart/?symbol=EWTX) | Edgewise Therapeutics, Inc. Common Stock | EWTX |
-| 15 | 89 | $63.35 | [Chart](https://www.tradingview.com/chart/?symbol=COLM) | Columbia Sportswear Co | COLM |
-| 18 | 88 | $22.00 | [Chart](https://www.tradingview.com/chart/?symbol=SGRY) | Surgery Partners, Inc. Common Stock | SGRY |
-| 15 | 87 | $36.61 | [Chart](https://www.tradingview.com/chart/?symbol=OHI) | Omega Healthcare Investors Inc. | OHI |
-| 16 | 87 | $32.34 | [Chart](https://www.tradingview.com/chart/?symbol=INVH) | Invitation Homes Inc. Common Stock | INVH |
-| 17 | 86 | $35.49 | [Chart](https://www.tradingview.com/chart/?symbol=AMH) | AMERICAN HOMES 4 RENT | AMH |
-| 22 | 86 | $61.52 | [Chart](https://www.tradingview.com/chart/?symbol=UL) | Unilever plc | UL |
-| 19 | 85 | $30.52 | [Chart](https://www.tradingview.com/chart/?symbol=AXTA) | Axalta Coating Systems Ltd. | AXTA |
-| 20 | 84 | $35.09 | [Chart](https://www.tradingview.com/chart/?symbol=PECO) | Phillips Edison & Company, Inc. Common Stock | PECO |
-| 22 | 84 | $39.69 | [Chart](https://www.tradingview.com/chart/?symbol=TOTL) | SSgA Active ETF Trust SPDR DoubleLine Total Return Tactical ETF | TOTL |
-| 28 | 84 | $28.06 | [Chart](https://www.tradingview.com/chart/?symbol=RNA) | Avidity Biosciences, Inc. Common Stock | RNA |
+| 21 | 90 | $770.16 | [Chart](https://www.tradingview.com/chart/?symbol=LLY) | Eli Lilly & Co. | LLY |
+| 25 | 90 | $15.60 | [Chart](https://www.tradingview.com/chart/?symbol=HQH) | abrdn Healthcare Investors | HQH |
+| 13 | 89 | $40.80 | [Chart](https://www.tradingview.com/chart/?symbol=UDR) | UDR, Inc. | UDR |
+| 15 | 89 | $290.32 | [Chart](https://www.tradingview.com/chart/?symbol=UTHR) | United Therapeutics Corp | UTHR |
+| 16 | 89 | $101.43 | [Chart](https://www.tradingview.com/chart/?symbol=CCI) | Crown Castle Inc. | CCI |
+| 16 | 87 | $32.32 | [Chart](https://www.tradingview.com/chart/?symbol=INVH) | Invitation Homes Inc. Common Stock | INVH |
+| 16 | 86 | $36.56 | [Chart](https://www.tradingview.com/chart/?symbol=OHI) | Omega Healthcare Investors Inc. | OHI |
+| 19 | 86 | $22.05 | [Chart](https://www.tradingview.com/chart/?symbol=SGRY) | Surgery Partners, Inc. Common Stock | SGRY |
+| 17 | 85 | $35.46 | [Chart](https://www.tradingview.com/chart/?symbol=AMH) | AMERICAN HOMES 4 RENT | AMH |
+| 18 | 85 | $30.40 | [Chart](https://www.tradingview.com/chart/?symbol=AXTA) | Axalta Coating Systems Ltd. | AXTA |
+| 19 | 85 | $21.68 | [Chart](https://www.tradingview.com/chart/?symbol=TUA) | Simplify Short Term Treasury Futures Strategy ETF | TUA |
+| 23 | 85 | $61.50 | [Chart](https://www.tradingview.com/chart/?symbol=UL) | Unilever plc | UL |
+| 20 | 84 | $35.02 | [Chart](https://www.tradingview.com/chart/?symbol=PECO) | Phillips Edison & Company, Inc. Common Stock | PECO |
 | 25 | 83 | $197.79 | [Chart](https://www.tradingview.com/chart/?symbol=RGA) | Reinsurance Group of America, Incorporated | RGA |
-| 27 | 83 | $22.84 | [Chart](https://www.tradingview.com/chart/?symbol=IBTG) | iShares iBonds Dec 2026 Term Treasury ETF | IBTG |
-| 22 | 82 | $14.35 | [Chart](https://www.tradingview.com/chart/?symbol=BMEZ) | BlackRock Health Sciences Term Trust | BMEZ |
-| 21 | 80 | $27.46 | [Chart](https://www.tradingview.com/chart/?symbol=IVT) | InvenTrust Properties Corp. | IVT |
+| 22 | 82 | $14.31 | [Chart](https://www.tradingview.com/chart/?symbol=BMEZ) | BlackRock Health Sciences Term Trust | BMEZ |
+| 23 | 82 | $39.69 | [Chart](https://www.tradingview.com/chart/?symbol=TOTL) | SSgA Active ETF Trust SPDR DoubleLine Total Return Tactical ETF | TOTL |
+| 28 | 81 | $22.84 | [Chart](https://www.tradingview.com/chart/?symbol=IBTG) | iShares iBonds Dec 2026 Term Treasury ETF | IBTG |
+| 31 | 81 | $28.22 | [Chart](https://www.tradingview.com/chart/?symbol=RNA) | Avidity Biosciences, Inc. Common Stock | RNA |
+| 20 | 80 | $27.25 | [Chart](https://www.tradingview.com/chart/?symbol=IVT) | InvenTrust Properties Corp. | IVT |
+| 28 | 80 | $300.96 | [Chart](https://www.tradingview.com/chart/?symbol=ACN) | Accenture PLC | ACN |
+| 37 | 80 | $18.34 | [Chart](https://www.tradingview.com/chart/?symbol=S) | SentinelOne, Inc. | S |
 | 24 | 79 | $69.68 | [Chart](https://www.tradingview.com/chart/?symbol=BRC) | Brady Corporation | BRC |
-| 29 | 79 | $301.58 | [Chart](https://www.tradingview.com/chart/?symbol=ACN) | Accenture PLC | ACN |
-| 25 | 78 | $21.70 | [Chart](https://www.tradingview.com/chart/?symbol=TUA) | Simplify Short Term Treasury Futures Strategy ETF | TUA |
-| 39 | 78 | $18.45 | [Chart](https://www.tradingview.com/chart/?symbol=S) | SentinelOne, Inc. | S |
-| 32 | 76 | $56.58 | [Chart](https://www.tradingview.com/chart/?symbol=DAY) | Dayforce, Inc. | DAY |
-| 27 | 75 | $29.13 | [Chart](https://www.tradingview.com/chart/?symbol=SPTS) | SPDR Portfolio Short Term Treasury ETF | SPTS |
-| 38 | 74 | $467.80 | [Chart](https://www.tradingview.com/chart/?symbol=LMT) | Lockheed Martin Corp. | LMT |
-| 35 | 73 | $29.44 | [Chart](https://www.tradingview.com/chart/?symbol=CRNX) | Crinetics Pharmaceuticals, Inc. | CRNX |
+| 29 | 79 | $56.27 | [Chart](https://www.tradingview.com/chart/?symbol=DAY) | Dayforce, Inc. | DAY |
+| 27 | 75 | $29.12 | [Chart](https://www.tradingview.com/chart/?symbol=SPTS) | SPDR Portfolio Short Term Treasury ETF | SPTS |
+| 38 | 74 | $466.81 | [Chart](https://www.tradingview.com/chart/?symbol=LMT) | Lockheed Martin Corp. | LMT |
+| 37 | 73 | $124.54 | [Chart](https://www.tradingview.com/chart/?symbol=RGEN) | Repligen Corp | RGEN |
+| 35 | 72 | $346.16 | [Chart](https://www.tradingview.com/chart/?symbol=SHW) | The Sherwin-Williams Company | SHW |
+| 35 | 72 | $118.00 | [Chart](https://www.tradingview.com/chart/?symbol=ITGR) | Integer Holdings Corporation | ITGR |
 | 29 | 71 | $110.12 | [Chart](https://www.tradingview.com/chart/?symbol=SHV) | iShares Short Treasury Bond ETF | SHV |
-| 36 | 71 | $118.75 | [Chart](https://www.tradingview.com/chart/?symbol=ITGR) | Integer Holdings Corporation | ITGR |
-| 36 | 71 | $347.62 | [Chart](https://www.tradingview.com/chart/?symbol=SHW) | The Sherwin-Williams Company | SHW |
-| 39 | 71 | $125.44 | [Chart](https://www.tradingview.com/chart/?symbol=RGEN) | Repligen Corp | RGEN |
-| 35 | 68 | $219.82 | [Chart](https://www.tradingview.com/chart/?symbol=MKTX) | MarketAxess Holdings Inc. | MKTX |
-| 38 | 63 | $89.75 | [Chart](https://www.tradingview.com/chart/?symbol=LPX) | Louisiana-Pacific Corp. | LPX |
+| 36 | 71 | $29.39 | [Chart](https://www.tradingview.com/chart/?symbol=CRNX) | Crinetics Pharmaceuticals, Inc. | CRNX |
+| 32 | 69 | $23.11 | [Chart](https://www.tradingview.com/chart/?symbol=IBHF) | iShares iBonds 2026 Term High Yield and Income ETF | IBHF |
+| 38 | 63 | $89.43 | [Chart](https://www.tradingview.com/chart/?symbol=LPX) | Louisiana-Pacific Corp. | LPX |
 
 ## **Methodology**
 
